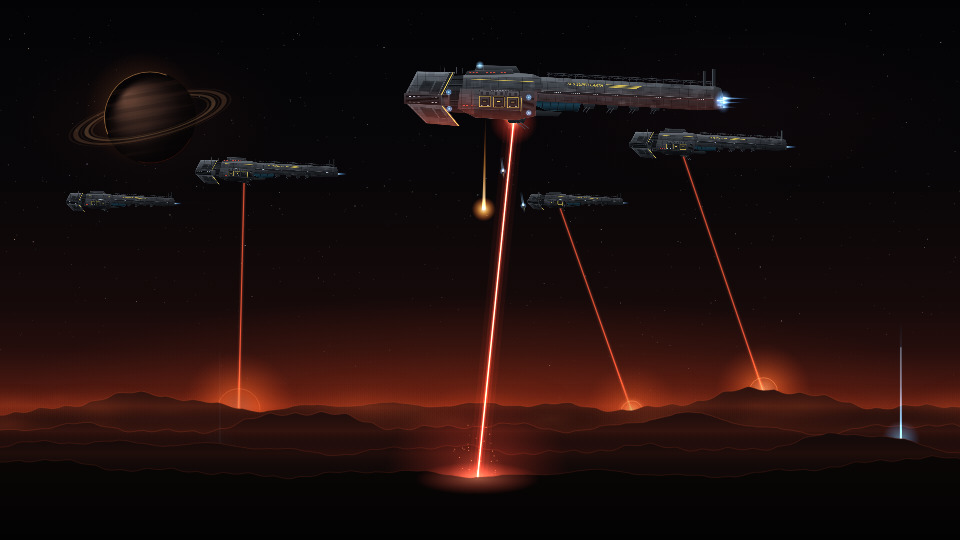
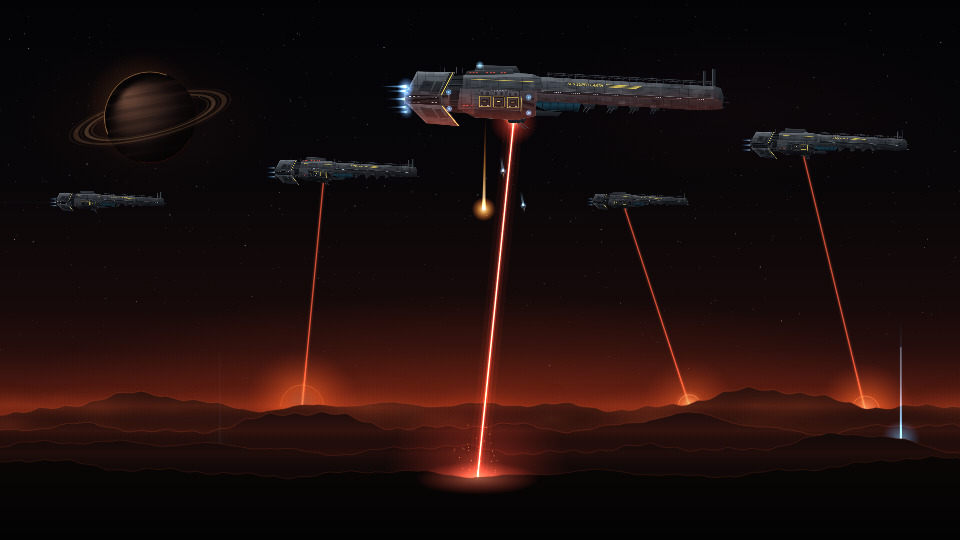
Move Super Destroyer engines to the paneled stern end and reverse flight direction

diff --git a/scenes/helldivers.html b/scenes/helldivers.html
@@ -193,11 +193,11 @@ const shipPt = (px, py, bob = 0, sObj = SHIP) => [
 const EMIT = [468, 286];
 const POD_BAYS = [[360, 238], [414, 240], [468, 242]];
 const ENGINES = [
-  [1274, 198, 1.15],
-  [1274, 214, 1.0],
-  [1274, 232, 0.85],
-  [1252, 206, 0.68],
-  [1252, 224, 0.68],
+  [54, 152, 1.15],
+  [50, 170, 1.0],
+  [48, 200, 1.15],
+  [52, 232, 1.0],
+  [56, 250, 0.9],
 ];
 const LIGHTS = [
   { p: [188, 76], c: '130,205,255', rate: 0.55, ph: 0.0 },
@@ -419,14 +419,13 @@ function renderShip(scale) {
   paintArmorTexture(g, 548, 114, 700, 52, 4404, 0.054);
   g.restore();
 
-  // Stern engine cowling & armored thruster nozzles
+  // Forward bow tip & sensor prongs
   poly(g, [1238, 152, 1266, 158, 1276, 192, 1274, 240, 1236, 242]);
   g.fillStyle = vGrad(152, 242, [[0, '#383d44'], [0.5, '#22262b'], [1, '#121417']]);
   g.fill();
-  for (const ny of [194, 210, 228]) {
-    poly(g, [1264, ny - 5, 1278, ny - 4, 1278, ny + 4, 1264, ny + 5]);
-    g.fillStyle = '#15181c'; g.fill();
-    g.strokeStyle = '#525862'; g.lineWidth = 1; g.stroke();
+  g.strokeStyle = '#626a74'; g.lineWidth = 1.6;
+  for (const [py, len] of [[196, 18], [212, 24], [234, 15]]) {
+    g.beginPath(); g.moveTo(1272, py); g.lineTo(1272 + len, py + 1); g.stroke();
   }
 
   // Yellow "SES SUPER EARTH" hull livery & 3-bar insignia
@@ -603,7 +602,12 @@ function renderShip(scale) {
   g.strokeStyle = '#dfc85c'; g.lineWidth = 3.6;
   g.beginPath(); g.moveTo(193, 228); g.lineTo(255, 303); g.stroke();
 
-  // Bow circular RCS thruster ports
+  // Bow circular RCS thruster ports & stern engine nozzle cowlings between the panels
+  for (const [nx, ny] of [[56, 152], [52, 170], [48, 200], [54, 232], [58, 250]]) {
+    poly(g, [nx, ny - 5, nx + 14, ny - 4, nx + 14, ny + 4, nx, ny + 5]);
+    g.fillStyle = '#121519'; g.fill();
+    g.strokeStyle = '#4e5660'; g.lineWidth = 1; g.stroke();
+  }
   for (const [px, py] of [[218, 174], [220, 238]]) {
     g.fillStyle = '#0c0e11';
     g.beginPath(); g.arc(px, py, 9, 0, TAU); g.fill();
@@ -854,18 +858,18 @@ function spawnFleetDestroyer(mode = 'warp-in', customSlot = null) {
   const k = slot.k * range(0.92, 1.08);
   const holdDur = range(11, 22);
   const ship = {
-    x: mode === 'warp-in' ? VW + 350 : slot.x,
+    x: mode === 'warp-in' ? -420 : slot.x,
     y: slot.y + range(-14, 14),
     targetX: slot.x + range(-35, 35),
-    startX: VW + 380,
-    exitX: -750,
+    startX: -450,
+    exitX: VW + 450,
     k,
     state: mode === 'warp-in' ? 'arrive' : 'hold',
     t: mode === 'hold' ? range(1, holdDur * 0.5) : 0,
     arriveDur: range(1.1, 1.6),
     holdDur,
     departDur: range(1.3, 1.9),
-    driftVx: -range(6, 14) * (k / 0.2),
+    driftVx: range(6, 14) * (k / 0.2),
     phase: range(0, TAU),
     warpFlash: 0,
     fired: false,
@@ -1179,19 +1183,19 @@ LW.start({
       const fy = f.y + (L.y - SHIP.oy) * f.k + fbob;
       const fw = L.w * f.k, fh = L.h * f.k;
 
-      // FTL Warp Jump light streak during arrival / departure
+      // FTL Warp Jump light streak during arrival / departure (trailing from stern on the left)
       if (f.warpFlash > 0.01) {
         ctx.save();
         ctx.globalCompositeOperation = 'lighter';
-        const wy = f.y + (205 - SHIP.oy) * f.k + fbob;
+        const wy = f.y + (200 - SHIP.oy) * f.k + fbob;
         const streakLen = (280 + 520 * f.warpFlash) * (f.k / 0.2);
-        const sx0 = f.state === 'arrive' ? fx + fw * 0.4 : fx + fw * 0.2;
-        const sg = ctx.createLinearGradient(sx0, wy, sx0 + streakLen, wy);
+        const sx0 = fx + fw * 0.08;
+        const sg = ctx.createLinearGradient(sx0, wy, sx0 - streakLen, wy);
         sg.addColorStop(0, `rgba(200, 240, 255, ${0.85 * f.warpFlash})`);
         sg.addColorStop(0.3, `rgba(90, 175, 255, ${0.45 * f.warpFlash})`);
         sg.addColorStop(1, 'rgba(40, 110, 255, 0)');
         ctx.fillStyle = sg;
-        ctx.fillRect(sx0, wy - 16 * f.k, streakLen, 32 * f.k);
+        ctx.fillRect(sx0 - streakLen, wy - 16 * f.k, streakLen, 32 * f.k);
         ctx.restore();
       }
 
@@ -1200,16 +1204,18 @@ LW.start({
       ctx.drawImage(L.canvas, fx, fy, fw, fh);
       ctx.restore();
 
-      // Fleet ship engine plumes
+      // Fleet ship engine plumes (on the left/stern end with the panels)
       ctx.globalCompositeOperation = 'lighter';
-      const [ex0, ey0] = shipPt(1274, 214, fbob, f);
-      const pLen = (75 + f.warpFlash * 140) * f.k;
-      const eg = ctx.createLinearGradient(ex0, ey0, ex0 + pLen, ey0);
-      eg.addColorStop(0, `rgba(200,240,255,${0.88 + f.warpFlash * 0.12})`);
-      eg.addColorStop(0.35, 'rgba(100,185,255,0.55)');
-      eg.addColorStop(1, 'rgba(60,130,255,0)');
-      ctx.fillStyle = eg;
-      ctx.fillRect(ex0, ey0 - 7 * f.k, pLen, 14 * f.k);
+      for (const eyOff of [162, 200, 238]) {
+        const [ex0, ey0] = shipPt(50, eyOff, fbob, f);
+        const pLen = (68 + f.warpFlash * 140) * f.k;
+        const eg = ctx.createLinearGradient(ex0, ey0, ex0 - pLen, ey0);
+        eg.addColorStop(0, `rgba(205,242,255,${0.88 + f.warpFlash * 0.12})`);
+        eg.addColorStop(0.35, 'rgba(100,185,255,0.55)');
+        eg.addColorStop(1, 'rgba(60,130,255,0)');
+        ctx.fillStyle = eg;
+        ctx.fillRect(ex0 - pLen, ey0 - 4.5 * f.k, pLen, 9 * f.k);
+      }
       ctx.globalCompositeOperation = 'source-over';
     }
 
@@ -1463,28 +1469,28 @@ LW.start({
       ctx.globalAlpha = 1;
     }
 
-    // Flagship ion engine plumes
+    // Flagship ion engine plumes (at the stern end with the angled armor panels)
     for (const [i, e] of ENGINES.entries()) {
       const [x, y] = shipPt(e[0], e[1], bob);
       const f = (0.78 + 0.22 * Math.sin(t * 24 + i * 1.9) * Math.sin(t * 7.5 + i)) * e[2];
       const len = 56 * f;
-      const g = ctx.createLinearGradient(x, y, x + len, y);
+      const g = ctx.createLinearGradient(x, y, x - len, y);
       g.addColorStop(0, `rgba(220,245,255,${0.95 * f})`);
       g.addColorStop(0.28, `rgba(120,195,255,${0.7 * f})`);
       g.addColorStop(1, 'rgba(50,130,255,0)');
       ctx.fillStyle = g;
       ctx.beginPath();
-      ctx.moveTo(x, y - 2.0 * e[2]);
-      ctx.lineTo(x + len, y);
-      ctx.lineTo(x, y + 2.0 * e[2]);
+      ctx.moveTo(x, y - 2.2 * e[2]);
+      ctx.lineTo(x - len, y);
+      ctx.lineTo(x, y + 2.2 * e[2]);
       ctx.closePath();
       ctx.fill();
 
-      const r = ctx.createRadialGradient(x, y, 0, x, y, 15 * e[2]);
-      r.addColorStop(0, `rgba(165,220,255,${0.75 * f})`);
+      const r = ctx.createRadialGradient(x, y, 0, x, y, 16 * e[2]);
+      r.addColorStop(0, `rgba(165,220,255,${0.78 * f})`);
       r.addColorStop(1, 'rgba(60,140,255,0)');
       ctx.fillStyle = r;
-      ctx.fillRect(x - 16, y - 16, 32, 32);
+      ctx.fillRect(x - 17, y - 17, 34, 34);
     }
 
     // Glowing blue circular RCS thruster ports on flagship
